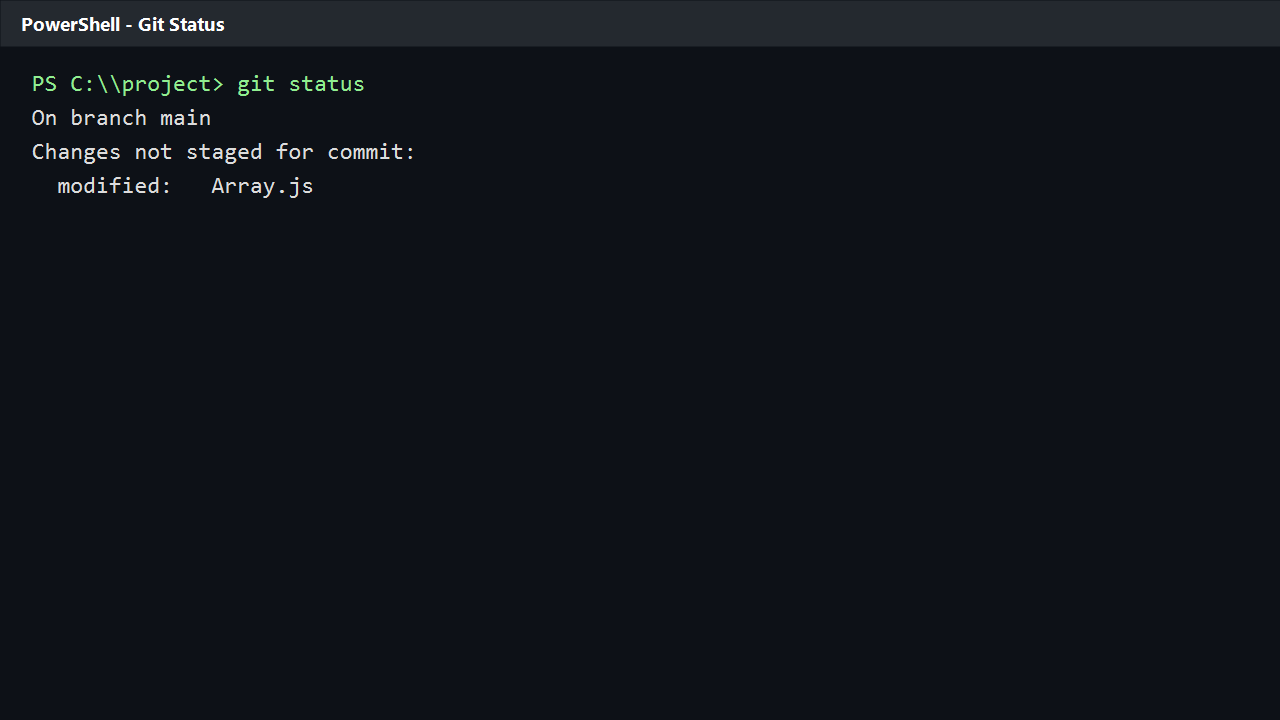
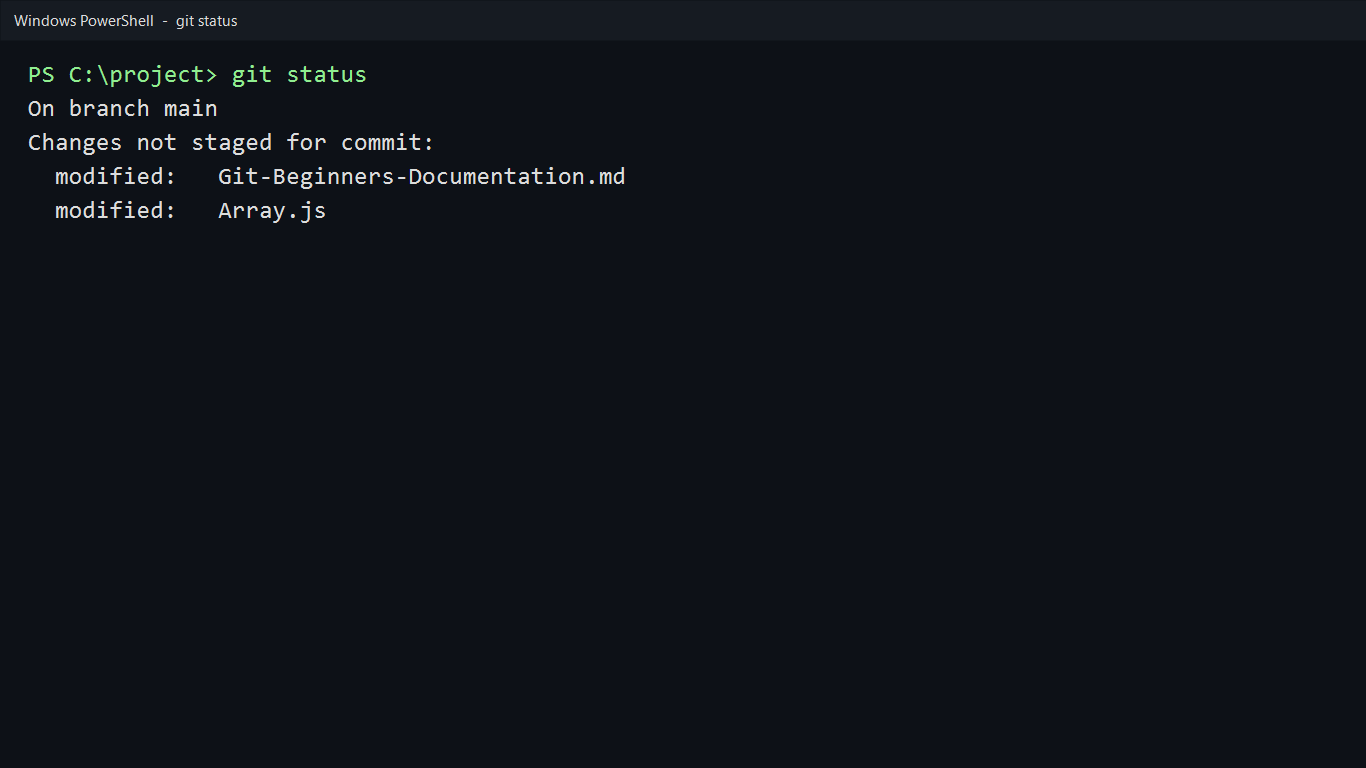
final changes png

Changed region(s): [[0.0, 0.0917, 0.4688, 0.3056], [0.0, 0.0, 0.1875, 0.0611]]

diff --git a/Git-Beginners-Documentation.md b/Git-Beginners-Documentation.md
@@ -54,8 +54,7 @@ flowchart TD
     G --> H[HEAD Current Branch Pointer]
 ```
 
-### Screenshot Placeholders (Introduction)
-Replace these with real PNG images:
+### Screenshots (Introduction)
 
 ![Git Workflow in VS Code](./assets/screenshots/real-01-git-workflow-vscode.png)
 ![GitHub Repository Home](./assets/screenshots/real-02-github-repo-home.png)
@@ -216,7 +215,7 @@ stateDiagram-v2
     Committed --> Staged: edit + git add
 ```
 
-### Screenshot Placeholders (Initialize Repository)
+### Screenshots (Initialize Repository)
 
 ![Terminal git init output](./assets/screenshots/real-04-git-init-output.png)
 ![VS Code Source Control staged files](./assets/screenshots/real-05-vscode-staging.png)
@@ -285,7 +284,7 @@ flowchart TD
     F --> G[Open PR or Continue Work]
 ```
 
-### Screenshot Placeholders (Daily Workflow)
+### Screenshots (Daily Workflow)
 
 ![Terminal daily workflow](./assets/screenshots/real-07-daily-workflow-terminal.png)
 ![VS Code commit message and commit button](./assets/screenshots/real-08-vscode-commit.png)
@@ -372,7 +371,7 @@ flowchart TD
     R2[origin/abhishek_dhone] --> L2[local abhishek_dhone]
 ```
 
-### Screenshot Placeholders (Clone)
+### Screenshots (Clone)
 
 ![Terminal git clone output](./assets/screenshots/real-10-git-clone-output.png)
 ![VS Code branch switch](./assets/screenshots/real-11-vscode-branch-switch.png)
@@ -506,7 +505,7 @@ flowchart LR
 - Conflict appears in the same function.
 - You pull latest `main`, re-merge, resolve file conflict, and push.
 
-### Screenshot Placeholders (Merge Conflicts)
+### Screenshots (Merge Conflicts)
 
 ![Terminal push rejected non-fast-forward](./assets/screenshots/real-13-push-rejected.png)
 ![VS Code merge conflict markers](./assets/screenshots/real-14-vscode-conflict-markers.png)
@@ -556,7 +555,7 @@ flowchart TD
     F --> G[Merge to main]
 ```
 
-### Screenshot Placeholders (Visual Pack)
+### Screenshots (Visual Pack)
 
 ![VS Code Source Control panel](./assets/screenshots/real-17-vscode-source-control.png)
 ![GitHub branches page](./assets/screenshots/real-18-github-branches.png)
@@ -751,24 +750,6 @@ Suggested commit style examples:
 
 20. What are best practices for commit messages?
 - Keep them concise, clear, and action-oriented; describe what and why.
-
----
-
-## Suggested Folder for Screenshot Assets
-
-Create this structure for your real screenshots:
-
-```text
-assets/
-  screenshots/
-    01-git-workflow-vscode.png
-    02-github-repo-home.png
-    03-terminal-git-status.png
-    ...
-    20-git-graph.png
-```
-
-This keeps your documentation professional and easy to maintain.
 
 ---
 
